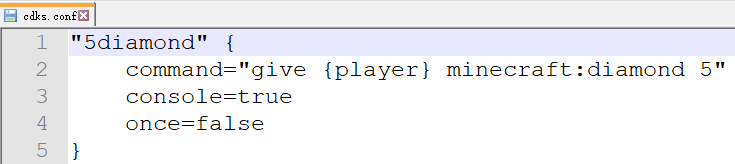
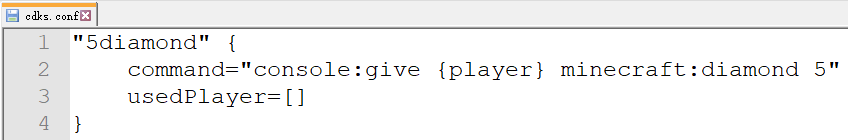
Update README.md and related img.

Changed region(s): [[0.0, 0.0, 1.0, 1.0], [0.1497, 0.3714, 1.0, 0.8]]

diff --git a/README.md b/README.md
@@ -20,8 +20,8 @@
 
 | 命令 | 功能 |
 | ---- | ---- |
-| /ancdk create [--once] [数量] [命令] | 创建`[数量]`个执行`[命令]`的CDK <br> 命令前可使用`console:`指定控制台执行 <br> 使用`--once`参数可让CDK为一次性，否则每个玩家均可使用一次此CDK |
-| /ancdk export | 批量一键导出所有CDK |
+| /ancdk create <--once> [数量] [命令] | 创建`[数量]`个执行`[命令]`的CDK <br> 命令前可使用`console:`指定控制台执行 <br> 使用`--once`参数可让CDK为一次性，否则每个玩家均可使用一次此CDK |
+| /ancdk export <csv> | 批量一键导出所有CDK。使用`csv`参数可以仅将所有cdkey导出为csv文件 |
 | /ancdk reload | 重载插件配置文件 |
 
 > 玩家命令:
@@ -63,7 +63,7 @@ Bukkit/Spigot配置文件示例：
 ```
 
 ```hocon
-Sponge配置文件示例： 
+Sponge配置文件示例（cdks.conf）： 
 仅可执行一次的CDK： 
 "1ll73hur1bhm" {                                 ## CDKey内容
     command="console:eco give {player} 100"      ## 使用CDK后要执行的命令。可在命令前添加"console:"来指定是否以控制台身份执行
@@ -78,9 +78,25 @@ Sponge配置文件示例：
 }
 ```
 
+## 翻译（目前仅sponge）
+
+使用压缩软件找到插件jar包内的`assets/ancdk/lang`文件夹，或者下载发行版中的`lang.zip`文件，随后解压你要使用的语言文件
+
+将语言文件重命名为`language.conf`并替换掉配置目录（默认`config/ancdk`）下的同名文件
+
+重启服务器/重载插件即可
+
+目前本插件自带的翻译文件有：
+
+* English
+
+* 中文（简体）
+
+* 中文（繁體）
+
 ## 使用教程&图文介绍
 
-例1：生成10个CDK，玩家执行后获得100枚游戏币
+例1（Bukkit/Spigot）：生成10个CDK，玩家执行后获得100枚游戏币
 
 思路：生成10个CDK，绑定命令为"/eco give {player} 100"
 
@@ -108,11 +124,11 @@ Sponge端为`config/ancdk`目录下的`cdks.conf`
 
 ***
 
-例2：手动添加1个永久的CDK，每个玩家执行后控制台会为其发放5个钻石
+例2（Sponge）：手动添加1个永久的CDK，每个玩家执行后控制台会为其发放5个钻石
 
 思路：打开配置文件并手动写入CDK，绑定命令为`console:give {player} minecraft:diamond 5`
 
-1. 使用任意文本编辑器打开`config/ancdk/ancdk.conf`文件
+1. 使用任意文本编辑器打开`config/ancdk/cdks.conf`文件
 
 2. 按照配置文件示例格式进行书写。这里我们将`5diamond`作为CDK的内容，并将指令和空的已使用玩家列表写进去
 
@@ -125,7 +141,7 @@ Sponge端为`config/ancdk`目录下的`cdks.conf`
 
 Bukkit/Spigot: https://enron.lanzouv.com/b00pee79a 密码:giih
 
-Sponge: https://wwt.lanzouy.com/iZVVV045zkej 密码:1ddq
+Sponge: https://wwt.lanzouy.com/ipDUH04cg5ad 密码:d3zi
 
 或在仓库release中下载
 
